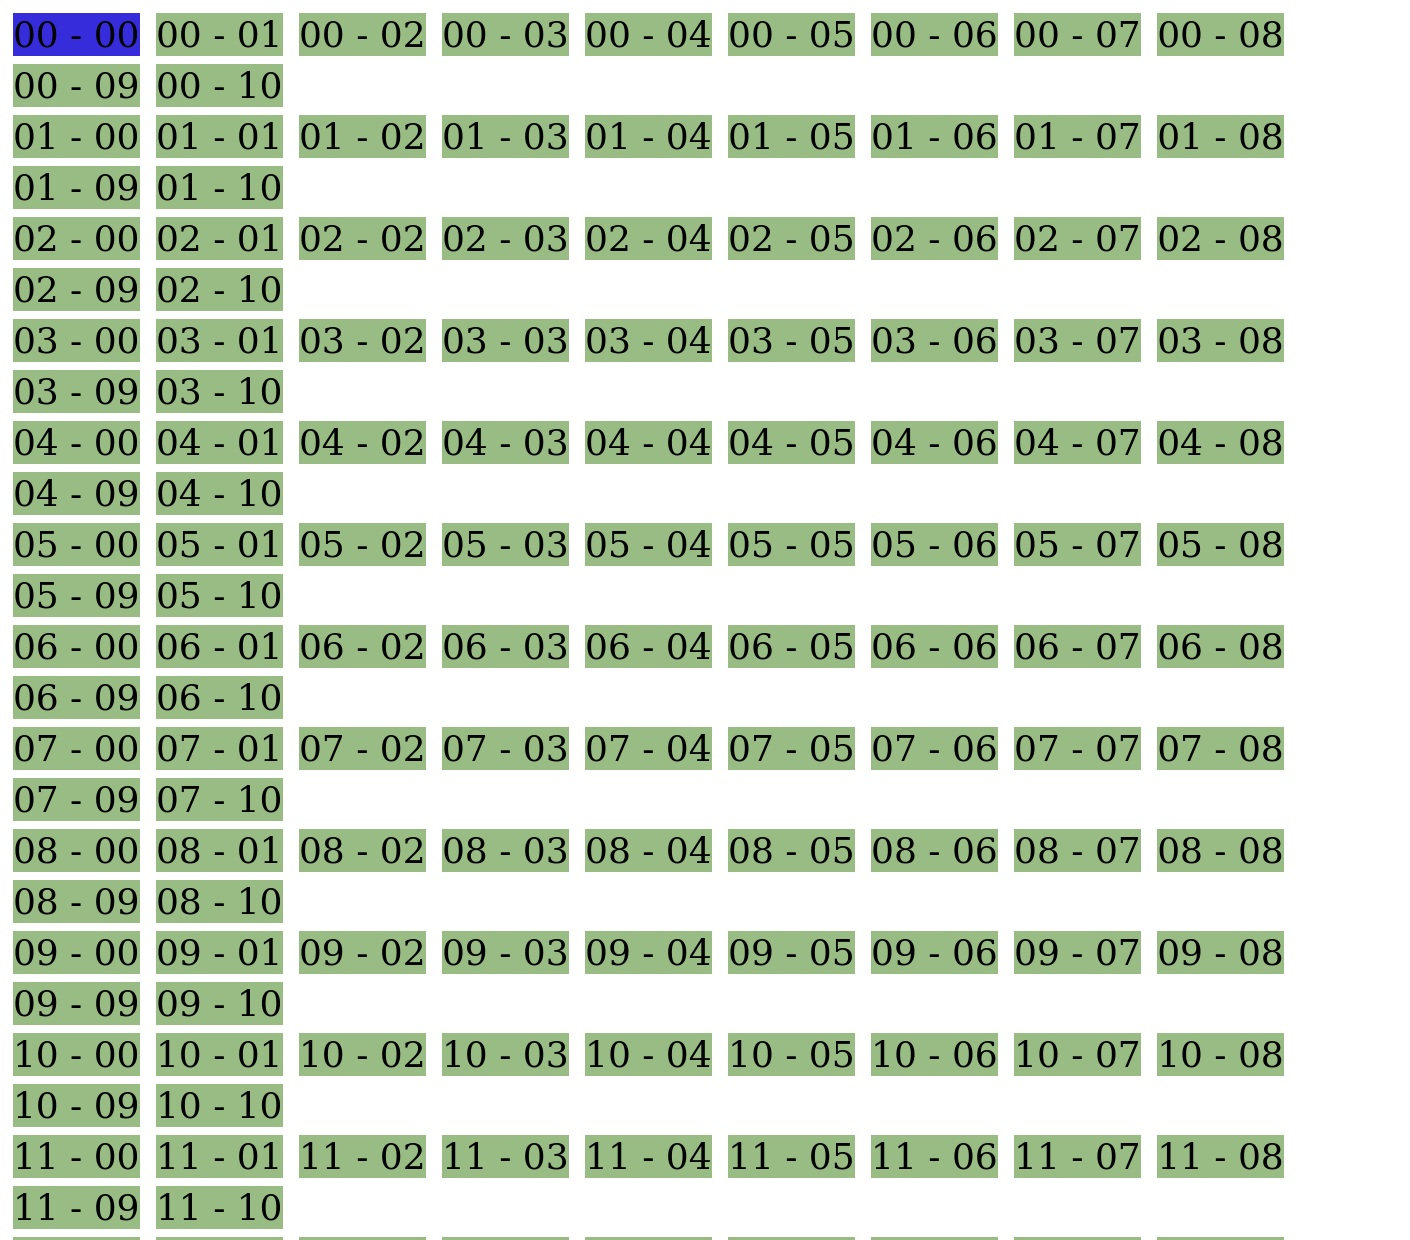
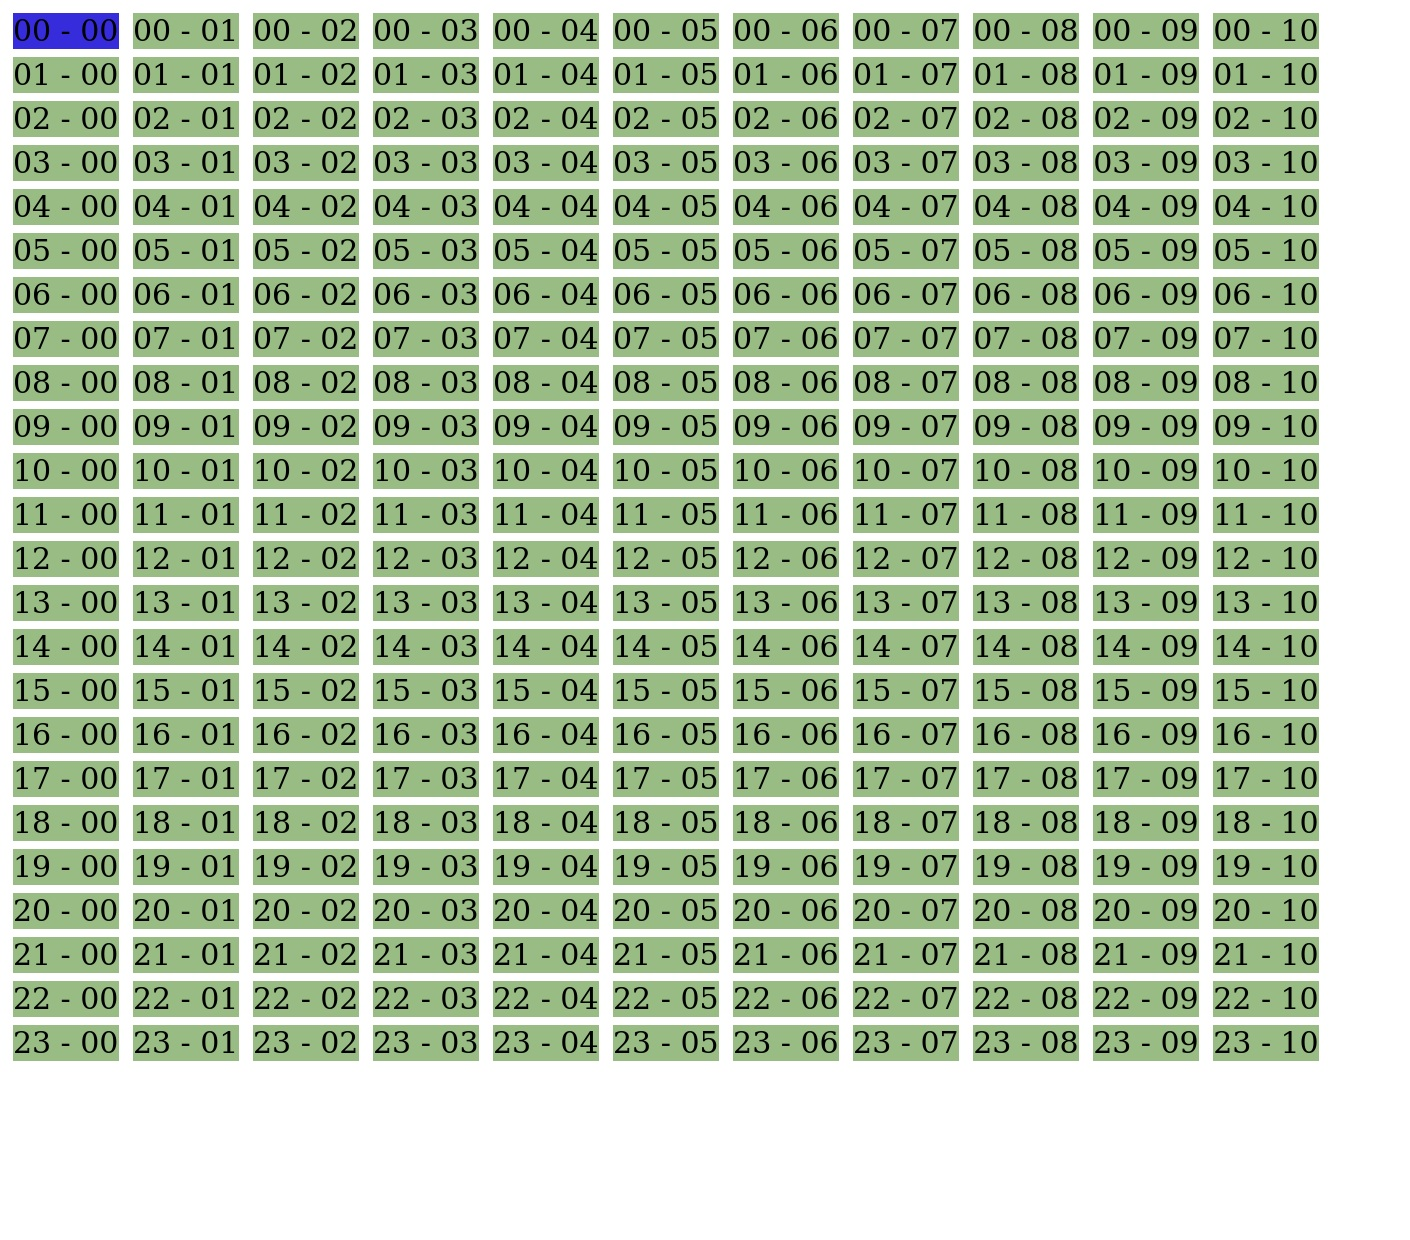
prova

diff --git a/Prova hex cose/Test_Hexa_Numerato/hex-test-numerato.css b/Prova hex cose/Test_Hexa_Numerato/hex-test-numerato.css
@@ -8,7 +8,7 @@
 */
 
 .container {
-  font-size: 36px; /*disable white space between inline block element */
+  font-size: 30px; /*disable white space between inline block element */
 }
 
 .container div {
